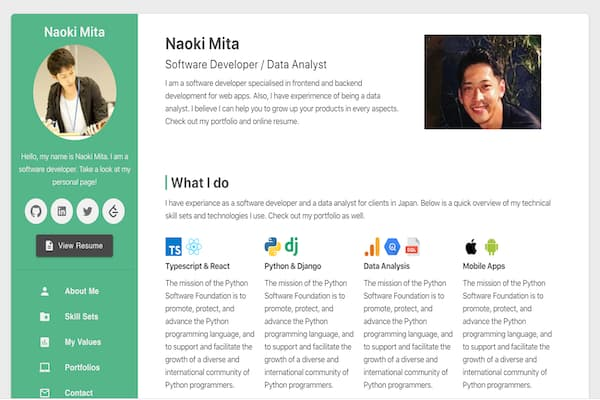
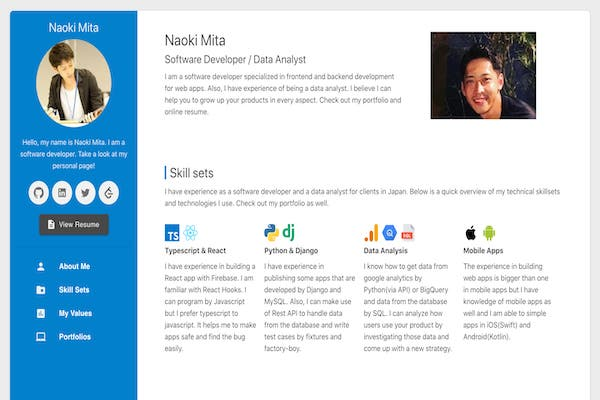
Updates

diff --git a/static/js/main.275f563f.chunk.js b/static/js/main.275f563f.chunk.js
@@ -1,0 +1,2 @@
+(this.webpackJsonpportfolio=this.webpackJsonpportfolio||[]).push([[0],{50:function(e,t,a){e.exports=a(67)},55:function(e,t,a){},56:function(e,t,a){},57:function(e,t,a){},61:function(e,t,a){},64:function(e,t,a){},65:function(e,t,a){},67:function(e,t,a){"use strict";a.r(t);var i=a(0),o=a.n(i),n=a(16),r=a.n(n),l=(a(55),a(19)),s=a(17),c=(a(56),a(90)),m=a(92),p=a(93),d=a(83),g=a(84),u=a(85),h=a(86),f=a(87),b=a(88),y=a(89),v=a(91),E=(a(57),a(80)),k=function(e){var t=e.url,a=e.icon;return o.a.createElement(E.a,{className:"icon-button",size:"medium",href:t},a)},w=(a(61),a(98)),N=a(81),I=a(82),T=a(41),j=function(e){var t=e.text,a=e.icon,i=e.anchor;return o.a.createElement(T.HashLink,{className:"headline-link",to:"/portfolio#".concat(i)},o.a.createElement(w.a,{button:!0,className:"headline-list-item"},o.a.createElement(N.a,{className:"headline-icon"},a),o.a.createElement(I.a,{className:"headline-text",primary:t})))},_=function(){var e=[{url:"https://github.com/nk18chi",element:o.a.createElement(d.a,null)},{url:"https://www.linkedin.com/in/naoki-mita-ab186839/",element:o.a.createElement(g.a,null)},{url:"https://twitter.com/naokien1",element:o.a.createElement(u.a,null)},{url:"https://leetcode.com/nk18chi/",element:o.a.createElement("img",{src:"/portfolio/img/icon/leetcode.svg",alt:""})}],t=[{text:"About Me",icon:o.a.createElement(h.a,null),anchor:"about-me"},{text:"Skill Sets",icon:o.a.createElement(f.a,null),anchor:"skill-sets"},{text:"My Values",icon:o.a.createElement(b.a,null),anchor:"my-values"},{text:"Portfolios",icon:o.a.createElement(y.a,null),anchor:"portfolios"}];return o.a.createElement("div",{className:"side-bar"},o.a.createElement("div",{className:"profile"},o.a.createElement("h2",null,"Naoki Mita"),o.a.createElement("img",{src:"/portfolio/img/main.jpg",alt:""}),o.a.createElement("p",null,"Hello, my name is Naoki Mita. I am a software developer. Take a look at my personal page!")),o.a.createElement("div",{className:"social-link"},o.a.createElement("ul",null,e.length>0&&e.map((function(e,t){return o.a.createElement(k,{key:t,url:e.url,icon:e.element})})))),o.a.createElement(c.a,{className:"black-btn",variant:"contained",size:"large",startIcon:o.a.createElement(v.a,null)},"View Resume"),o.a.createElement(m.a,{className:"divider"}),o.a.createElement("div",{className:"headline"},o.a.createElement(p.a,{component:"nav"},t.length>0&&t.map((function(e,t){return o.a.createElement(j,{key:t,text:e.text,icon:e.icon,anchor:e.anchor})})))))},U=(a(64),a(97)),x=a(94),A=a(95),z=a(96),S=[{id:1,serviceName:"Venture Desk",serviceThumbnail:"/portfolio/img/portfolio/vd_thumbnail.jpg",serviceDescription:"Users can book a meeting room through this app and apply for a membership that can make use of working space.",appIcons:["/portfolio/img/icon/typescript.svg","/portfolio/img/icon/react.svg","/portfolio/img/icon/firebase.svg","/portfolio/img/icon/sass.svg"],usages:[{headline:"User can check all meeting rooms",description:"Those meeting room data are fetched from Firebase Database",image:"/portfolio/img/portfolio/vd_search_meeting_room.jpg"},{headline:"Book a meeting room via through a form",description:"",image:"/portfolio/img/portfolio/vd_booking.jpg"},{headline:"Manage booking information that users applied for by admin-user",description:"Admin user can read and create, update the booking information on admin-page. This is built by react-admin with Firebase.",image:"/portfolio/img/portfolio/vd_admin_booking.jpg"},{headline:"The mail is sent to admin-user when use book a meeting room.",description:"This function is for admin-user not to overlook a booking user applied. This mail sending system is used by Firebase Functions",image:"/portfolio/img/portfolio/vd_mail.jpg"},{headline:"The booking is going to be fixed if admin-user allow",description:"Other users can make sure whether to book the room at time they want or not.",image:"/portfolio/img/portfolio/vd_schedule.jpg"},{headline:"User have to register to book the meeting",description:"The authentication to handle register and log-in, log-out rely on Firebase. This app verifies whether the email that user type in register page is true or not.",image:"/portfolio/img/portfolio/vd_register.jpg"}],features:[{headline:"Serverless apps",description:"This is a single page application by only react and firebase. I used React Hooks to handle data instead of Redux. I used react-admin and react-big-calendar that I connect with firebase."}],memo:"This app is not published yet because my client is making content and taking a photo. Also, I built this app for my client so that I don't plan to make this code public."},{id:2,serviceName:"Bizre",serviceThumbnail:"/portfolio/img/portfolio/bizre_thumbnail.jpg",serviceDescription:"This app is intended for a person who deal with real estate. They can advertise their properties that are on sale or rent at no cost.",appIcons:["/portfolio/img/icon/python.svg","/portfolio/img/icon/django.svg","/portfolio/img/icon/mysql.svg","/portfolio/img/icon/centos.svg"],usages:[{headline:"Search for a proprty by filtering area or station, cost and so on",description:"Users can store properties as favorites if they are logged-in.",image:"/portfolio/img/portfolio/bizre_searchlist.jpg"},{headline:"Check the information of a property in detail",description:"User can contact with the advertiser if they are interested in.",image:"/portfolio/img/portfolio/bizre_detail.jpg"},{headline:"Register this app by email-authentication",description:"User can use features of advertising property and storing property if they register. This app requires to verify their email that they input in register page as an authentication.User can use features of advertising property and storing property if they register. This app requires to verify their email that they input in register page as an authentication. This function is used by User authentication in Django.",image:"/portfolio/img/portfolio/bizre_register.jpg"},{headline:"Add their property as advertisement",description:"Users can add their property and advertise them at no cost if they register and admin-user allow. Of course, they update and delete their items. The term of advertising is  for only 40 days. Advertiser can receive notice of expiry date before 10 days and update expiry date during this 10days. If not, it will be automatically deleted on this app.",image:"/portfolio/img/portfolio/bizre_add_property.jpg"},{headline:"Set access permission for their property",description:"If advertiser want only some people to see their property, they can set access permission. If they do not have permit, it appears 403 page. In this If advertiser want only some people to see their property, they can set access permission. If they do not have permit, it appears 403 page. Users can sent an access request to an advertiser and users can watch the property if advertiser accepts the offer.",image:"/portfolio/img/portfolio/bizre_ar.jpg"},{headline:"send a mail that users might be interested in",description:"When a property is added, this app automatically send a mail to user that might have interest in this property according to user's area and needs. User can also register their needs for this mail.",image:"/portfolio/img/portfolio/bizre_mail.jpg"}],features:[{headline:"Test code by fixture and factory-boy",description:"This app has a lot of features so that it is more likely to happen bugs. To reduce this possibility, I focussed on writing test codes in particular for user authentication. ",image:"/portfolio/img/portfolio/bizre_testcode.jpg"},{headline:"Make the structure of files clean",description:"Take a look at above image. In general, the bigger a product is, the more complex the code is. To avoid this problem, I strictly followed MVC design pattern. In addition, divided folder by features and separated template files from apps."}],webUrl:"https://biz-re.com/",memo:"I developed this app for my client. Therefore, I don't plan to make this code public."},{id:3,serviceName:"Webdirector Blog",serviceThumbnail:"/portfolio/img/portfolio/wd_thumbnail.jpg",serviceDescription:"Users can book a meeting room through this app and apply for a membership that can make use of working space.",appIcons:["/portfolio/img/icon/python.svg","/portfolio/img/icon/django.svg","/portfolio/img/icon/mysql.svg","/portfolio/img/icon/centos.svg"],features:[{headline:"Get more articles without loading by REST API",description:"",image:"/portfolio/img/portfolio/wd_restapi.gif"},{headline:"Switch languages by i18n",description:"This blog can switch between Japanese and English. If an article is written by both languages, the post can switch languages. If not, move to top page in the languages.",image:"/portfolio/img/portfolio/wd_i18n.gif"},{headline:"SEO Friendly",description:"I am taking care of HTML markdown and structure of the URL path. Also, I set alternate tags in HTML because this blog supports two languages. To increase the speed of the blog, I set a cache for static files and reduce the weight of the images."}],webUrl:"https://webdirector-blog.com/en/",githubUrl:"https://github.com/nk18chi/webdirector-blog/"},{id:4,serviceName:"Portfolio",serviceThumbnail:"/portfolio/img/portfolio/portfolio.jpg",serviceDescription:"I introduce myself about what I can and my products on this page. This website is built by React and Github Hosting.",appIcons:["/portfolio/img/icon/typescript.svg","/portfolio/img/icon/react.svg","/portfolio/img/icon/github.svg","/portfolio/img/icon/sass.svg"],webUrl:"https://nk18chi.github.io/portfolio/",githubUrl:"https://github.com/nk18chi/portfolio"}],M=function(){var e=[{title:"Typescript & React",description:"I have experience in building a React app with Firebase. I am familiar with React Hooks. I can program by Javascript but I prefer typescript to javascript. It helps me to make apps safe and find the bug easily.",icons:["/portfolio/img/icon/typescript.svg","/portfolio/img/icon/react.svg"]},{title:"Python & Django",description:"I have experience in publishing some apps that are developed by Django and MySQL. Also, I can make use of Rest API to handle data from the database and write test cases by fixtures and factory-boy.",icons:["/portfolio/img/icon/python.svg","/portfolio/img/icon/django.svg"]},{title:"Data Analysis",description:"I know how to get data from google analytics by Python(via API) or BigQuery and data from the database by SQL. I can analyze how users use your product by investigating those data and come up with a new strategy.",icons:["/portfolio/img/icon/google-analytics.svg","/portfolio/img/icon/google-big-query.png","/portfolio/img/icon/sql.svg"]},{title:"Mobile Apps",description:"The experience in building web apps is bigger than one in mobile apps but I have knowledge of mobile apps as well and I am able to simple apps in iOS(Swift) and Android(Kotlin).",icons:["/portfolio/img/icon/apple.svg","/portfolio/img/icon/android.svg"]}],t=[{icon:o.a.createElement(x.a,null),title:"Passion for building apps",description:"I love building apps and thinking about how make users comfortable. I never stop learning and building the app even free time."},{icon:o.a.createElement(A.a,null),title:"Think efficiently",description:"I always keep looking for the way to reduce time. I love automation and effective-algorithm."},{icon:o.a.createElement(z.a,null),title:"Work together well",description:"I can smoothly work with a team from other departments because I have knowledge of not only building apps but also analysis and marketing, design etc."}];return o.a.createElement("article",{className:"main-column"},o.a.createElement("section",{id:"about-me",className:"about-me block"},o.a.createElement("div",{className:"summary-description"},o.a.createElement("h1",null,"Naoki Mita"),o.a.createElement("h3",null,"Software Developer / Data Analyst"),o.a.createElement("p",null,"I am a software developer specialized in frontend and backend development for web apps. Also, I have experience of being a data analyst. I believe I can help you to grow up your products in every aspect. Check out my portfolio and online resume.")),o.a.createElement("div",{className:"summary-image"},o.a.createElement("img",{className:"main-thumnail",src:"/portfolio/img/about_me.jpg",alt:""}))),o.a.createElement("section",{id:"skill-sets",className:"skill-sets block"},o.a.createElement("h2",null,"Skill sets"),o.a.createElement("p",null,"I have experience as a software developer and a data analyst for clients in Japan. Below is a quick overview of my technical skillsets and technologies I use. Check out my portfolio as well."),o.a.createElement("ul",null,e.length>0&&e.map((function(e,t){return o.a.createElement("li",{key:t,className:"four-elements"},o.a.createElement("div",null,o.a.createElement("ul",{className:"icon"},e.icons.length>0&&e.icons.map((function(e,t){return o.a.createElement("li",{key:t},o.a.createElement("img",{className:"app-icon",src:e,alt:""}))})))),o.a.createElement("h3",null,e.title),o.a.createElement("p",null,e.description))})))),o.a.createElement("section",{id:"my-values",className:"block"},o.a.createElement("h2",null,"My Values"),o.a.createElement("ul",null,t.length>0&&t.map((function(e,t){return o.a.createElement("li",{key:t,className:"three-elements"},o.a.createElement("p",{className:"center app-big-icon"},e.icon),o.a.createElement("h3",{className:"center"},e.title),o.a.createElement("p",null,e.description))})))),o.a.createElement("section",{id:"portfolios",className:"portfolios block"},o.a.createElement("h2",null,"PortFolios"),o.a.createElement("ul",null,S.length>0&&S.map((function(e){return o.a.createElement("li",{key:e.id,className:"three-elements card"},o.a.createElement("img",{className:"portfolio-thumbnail",src:e.serviceThumbnail,alt:""}),o.a.createElement("div",{className:"portfolio-description"},o.a.createElement("h3",null,e.serviceName),o.a.createElement("p",null,e.serviceDescription),o.a.createElement("p",{className:"font-little-bold"},"Applications"),o.a.createElement("ul",{className:"icons-ul"},e.appIcons.length>0&&e.appIcons.map((function(e,t){return o.a.createElement("li",{key:t},o.a.createElement("img",{className:"app-icon",src:e,alt:""}))}))),o.a.createElement("div",{className:"view-more"},o.a.createElement(U.a,{component:l.Link,to:"/portfolio/p_".concat(e.id,"/")},"view more"))))})))))},D=(a(65),a(43)),R=a.n(D),F=a(44),H=a.n(F);function P(){var e=Object(s.l)().pathname;return o.a.useEffect((function(){window.scrollTo(0,0)}),[e]),null}var q=function(e){var t=e.match.params.portfolio_id,a=S.find((function(e){return e.id===Number(t)}));return o.a.createElement("article",{className:"main-column"},o.a.createElement(P,null),o.a.createElement("section",{className:"portfolio-summary block"},o.a.createElement("div",{className:"summary-description"},o.a.createElement("h1",null,a.serviceName),o.a.createElement("p",null,a.serviceDescription),o.a.createElement("p",{className:"font-little-bold"},"Applications"),o.a.createElement("ul",{className:"icon"},a.appIcons.length>0&&a.appIcons.map((function(e,t){return o.a.createElement("li",{key:t},o.a.createElement("img",{className:"app-icon",src:e,alt:""}))})))),o.a.createElement("div",{className:"summary-image"},o.a.createElement("img",{className:"main-thumnail",src:a.serviceThumbnail,alt:""}))),a.usages&&o.a.createElement("section",{className:"portfolio-detail block"},o.a.createElement("h2",null,"How to use"),a.usages.length>0&&a.usages.map((function(e,t){return o.a.createElement("div",{key:t,className:"portfolio--detail-container block"},o.a.createElement("h3",{className:"font-little-bold"},e.headline),e.image&&o.a.createElement("img",{className:"portfolio-detail-image",src:e.image,alt:""}),o.a.createElement("p",null,e.description),o.a.createElement("ul",null))}))),a.features&&o.a.createElement("section",{className:"portfolio-detail block"},o.a.createElement("h2",null,"Feature points"),a.features.length>0&&a.features.map((function(e,t){return o.a.createElement("div",{key:t,className:"portfolio--detail-container block"},o.a.createElement("h3",{className:"font-little-bold"},e.headline),e.image&&o.a.createElement("img",{className:"portfolio-detail-image",src:e.image,alt:""}),o.a.createElement("p",null,e.description),o.a.createElement("ul",null))}))),o.a.createElement("section",{className:"portfolio-links block"},o.a.createElement("h2",null,"Go to my app"),o.a.createElement("ul",null,a.webUrl&&o.a.createElement("li",null,o.a.createElement(c.a,{href:a.webUrl,className:"black-btn link-badge",variant:"contained",size:"large",startIcon:o.a.createElement(R.a,null)},"Visit webpage")),a.githubUrl&&o.a.createElement("li",null,o.a.createElement(c.a,{href:a.githubUrl,className:"black-btn link-badge",variant:"contained",size:"large",startIcon:o.a.createElement(H.a,null)},"See on GitHub")),a.appstoreUrl&&o.a.createElement("li",null,o.a.createElement("div",null,o.a.createElement(U.a,{href:a.appstoreUrl},o.a.createElement("img",{className:"app-store-badge",src:"/portfolio/img/app-store-badge.svg",alt:""})))),a.googleplayUrl&&o.a.createElement("li",null,o.a.createElement("div",null,o.a.createElement(U.a,{href:a.googleplayUrl},o.a.createElement("img",{className:"google-play-badge link-badge",src:"/portfolio/img/google-play-badge.png",alt:""}))))),a.memo&&o.a.createElement("p",null,"\u203b",a.memo)))};var B=function(){return o.a.createElement(o.a.Fragment,null,o.a.createElement("div",{className:"container"},o.a.createElement(l.BrowserRouter,null,o.a.createElement(_,null),o.a.createElement(s.g,null,o.a.createElement(s.d,{exact:!0,path:"/portfolio/p_:portfolio_id",component:q}),o.a.createElement(s.d,{exact:!0,path:"/portfolio",component:M})))),o.a.createElement("footer",null,"2020 \xa9 Naoki Mita. All Rights Reserved."))};Boolean("localhost"===window.location.hostname||"[::1]"===window.location.hostname||window.location.hostname.match(/^127(?:\.(?:25[0-5]|2[0-4][0-9]|[01]?[0-9][0-9]?)){3}$/));r.a.render(o.a.createElement(o.a.StrictMode,null,o.a.createElement(B,null)),document.getElementById("root")),"serviceWorker"in navigator&&navigator.serviceWorker.ready.then((function(e){e.unregister()})).catch((function(e){console.error(e.message)}))}},[[50,1,2]]]);
+//# sourceMappingURL=main.275f563f.chunk.js.map

diff --git a/index.html b/index.html
@@ -1,1 +1,1 @@
-<!doctype html><html lang="en"><head><meta charset="utf-8"/><link rel="icon" href="/portfolio/favicon.ico"/><meta name="viewport" content="width=device-width,initial-scale=1"/><meta name="theme-color" content="#000000"/><meta name="description" content="Web site created using create-react-app"/><link rel="apple-touch-icon" href="/portfolio/logo192.png"/><link rel="manifest" href="/portfolio/manifest.json"/><title>React App</title><link href="/portfolio/static/css/main.5c84f550.chunk.css" rel="stylesheet"></head><body><noscript>You need to enable JavaScript to run this app.</noscript><div id="root"></div><script>!function(e){function r(r){for(var n,l,f=r[0],i=r[1],p=r[2],c=0,s=[];c<f.length;c++)l=f[c],Object.prototype.hasOwnProperty.call(o,l)&&o[l]&&s.push(o[l][0]),o[l]=0;for(n in i)Object.prototype.hasOwnProperty.call(i,n)&&(e[n]=i[n]);for(a&&a(r);s.length;)s.shift()();return u.push.apply(u,p||[]),t()}function t(){for(var e,r=0;r<u.length;r++){for(var t=u[r],n=!0,f=1;f<t.length;f++){var i=t[f];0!==o[i]&&(n=!1)}n&&(u.splice(r--,1),e=l(l.s=t[0]))}return e}var n={},o={1:0},u=[];function l(r){if(n[r])return n[r].exports;var t=n[r]={i:r,l:!1,exports:{}};return e[r].call(t.exports,t,t.exports,l),t.l=!0,t.exports}l.m=e,l.c=n,l.d=function(e,r,t){l.o(e,r)||Object.defineProperty(e,r,{enumerable:!0,get:t})},l.r=function(e){"undefined"!=typeof Symbol&&Symbol.toStringTag&&Object.defineProperty(e,Symbol.toStringTag,{value:"Module"}),Object.defineProperty(e,"__esModule",{value:!0})},l.t=function(e,r){if(1&r&&(e=l(e)),8&r)return e;if(4&r&&"object"==typeof e&&e&&e.__esModule)return e;var t=Object.create(null);if(l.r(t),Object.defineProperty(t,"default",{enumerable:!0,value:e}),2&r&&"string"!=typeof e)for(var n in e)l.d(t,n,function(r){return e[r]}.bind(null,n));return t},l.n=function(e){var r=e&&e.__esModule?function(){return e.default}:function(){return e};return l.d(r,"a",r),r},l.o=function(e,r){return Object.prototype.hasOwnProperty.call(e,r)},l.p="/portfolio/";var f=this.webpackJsonpportfolio=this.webpackJsonpportfolio||[],i=f.push.bind(f);f.push=r,f=f.slice();for(var p=0;p<f.length;p++)r(f[p]);var a=i;t()}([])</script><script src="/portfolio/static/js/2.1c5b478a.chunk.js"></script><script src="/portfolio/static/js/main.45e0fc2d.chunk.js"></script></body></html>
+<!doctype html><html lang="en"><head><script>!function(e,t,a,n,g){e[n]=e[n]||[],e[n].push({"gtm.start":(new Date).getTime(),event:"gtm.js"});var m=t.getElementsByTagName(a)[0],r=t.createElement(a);r.async=!0,r.src="https://www.googletagmanager.com/gtm.js?id=GTM-TSL5QLT",m.parentNode.insertBefore(r,m)}(window,document,"script","dataLayer")</script><meta charset="utf-8"/><link rel="icon" href="/portfolio/favicon.ico"/><meta name="viewport" content="width=device-width,initial-scale=1"/><meta name="theme-color" content="#000000"/><meta name="description" content="Web site created using create-react-app"/><link rel="apple-touch-icon" href="/portfolio/logo192.png"/><link rel="manifest" href="/portfolio/manifest.json"/><title>React App</title><link href="/portfolio/static/css/main.824cbae8.chunk.css" rel="stylesheet"></head><body><noscript><iframe src="https://www.googletagmanager.com/ns.html?id=GTM-TSL5QLT" height="0" width="0" style="display:none;visibility:hidden"></iframe></noscript><noscript>You need to enable JavaScript to run this app.</noscript><div id="root"></div><script>!function(e){function r(r){for(var n,l,f=r[0],i=r[1],p=r[2],c=0,s=[];c<f.length;c++)l=f[c],Object.prototype.hasOwnProperty.call(o,l)&&o[l]&&s.push(o[l][0]),o[l]=0;for(n in i)Object.prototype.hasOwnProperty.call(i,n)&&(e[n]=i[n]);for(a&&a(r);s.length;)s.shift()();return u.push.apply(u,p||[]),t()}function t(){for(var e,r=0;r<u.length;r++){for(var t=u[r],n=!0,f=1;f<t.length;f++){var i=t[f];0!==o[i]&&(n=!1)}n&&(u.splice(r--,1),e=l(l.s=t[0]))}return e}var n={},o={1:0},u=[];function l(r){if(n[r])return n[r].exports;var t=n[r]={i:r,l:!1,exports:{}};return e[r].call(t.exports,t,t.exports,l),t.l=!0,t.exports}l.m=e,l.c=n,l.d=function(e,r,t){l.o(e,r)||Object.defineProperty(e,r,{enumerable:!0,get:t})},l.r=function(e){"undefined"!=typeof Symbol&&Symbol.toStringTag&&Object.defineProperty(e,Symbol.toStringTag,{value:"Module"}),Object.defineProperty(e,"__esModule",{value:!0})},l.t=function(e,r){if(1&r&&(e=l(e)),8&r)return e;if(4&r&&"object"==typeof e&&e&&e.__esModule)return e;var t=Object.create(null);if(l.r(t),Object.defineProperty(t,"default",{enumerable:!0,value:e}),2&r&&"string"!=typeof e)for(var n in e)l.d(t,n,function(r){return e[r]}.bind(null,n));return t},l.n=function(e){var r=e&&e.__esModule?function(){return e.default}:function(){return e};return l.d(r,"a",r),r},l.o=function(e,r){return Object.prototype.hasOwnProperty.call(e,r)},l.p="/portfolio/";var f=this.webpackJsonpportfolio=this.webpackJsonpportfolio||[],i=f.push.bind(f);f.push=r,f=f.slice();for(var p=0;p<f.length;p++)r(f[p]);var a=i;t()}([])</script><script src="/portfolio/static/js/2.1c5b478a.chunk.js"></script><script src="/portfolio/static/js/main.275f563f.chunk.js"></script></body></html>

diff --git a/static/css/main.824cbae8.chunk.css b/static/css/main.824cbae8.chunk.css
@@ -1,0 +1,2 @@
+body{margin:0;font-family:-apple-system,BlinkMacSystemFont,"Segoe UI","Roboto","Oxygen","Ubuntu","Cantarell","Fira Sans","Droid Sans","Helvetica Neue",sans-serif;-webkit-font-smoothing:antialiased;-moz-osx-font-smoothing:grayscale;color:#484848}code{font-family:source-code-pro,Menlo,Monaco,Consolas,"Courier New",monospace}a,abbr,acronym,address,applet,article,aside,audio,b,big,blockquote,body,canvas,caption,center,cite,code,dd,del,details,dfn,div,dl,dt,em,embed,fieldset,figcaption,figure,footer,form,h1,h2,h3,h4,h5,h6,header,hgroup,html,i,iframe,img,ins,kbd,label,legend,li,mark,menu,nav,object,ol,output,p,pre,q,ruby,s,samp,section,small,span,strike,strong,sub,summary,sup,table,tbody,td,tfoot,th,thead,time,tr,tt,u,ul,var,video{margin:0;padding:0;border:0;font-size:100%;vertical-align:baseline}article,aside,details,figcaption,figure,footer,header,hgroup,menu,nav,section{display:block}html{scroll-behavior:smooth}body{line-height:1}ol,ul{list-style:none}blockquote,q{quotes:none}blockquote:after,blockquote:before,q:after,q:before{content:"";content:none}table{border-collapse:collapse;border-spacing:0}a{text-decoration:none}p{margin:12px 0;line-height:24px}#root{background-color:#ececec;overflow:hidden}footer{text-align:center;padding:8px;font-size:14px}.container{overflow:hidden;margin:24px;background-color:#0180cb;box-shadow:0 2px 2px 0 rgba(0,0,0,.14),0 3px 1px -2px rgba(0,0,0,.2),0 1px 5px 0 rgba(0,0,0,.12);border-radius:8px}h1{font-size:32px}.main-column{width:78%;float:right;background:#fff;min-height:750px}.main-column h2{font-size:28px;border-left:4px solid #0180cb;padding-left:8px}.black-btn{color:#f1f1f1!important;background-color:#484848!important;text-transform:none!important}.summary-description{width:60%;float:left}.summary-image{width:40%;float:left;text-align:center}.main-thumnail{max-width:75%}.icon,.icon li{display:inline-block}.icon{margin-bottom:8px}.app-icon{width:36px;height:36px;margin-right:8px}.block{padding:4% 6%;overflow:hidden}.center{text-align:center}.font-little-bold{font-weight:600}.side-bar{width:20%;float:left;color:#f1f1f1;text-align:center;padding:12px 1%}.side-bar .divider{margin:24px 0 8px!important}.profile img{border-radius:50%;width:180px;padding:4px 0}.profile h2{font-size:26px;padding:8px 0}.profile p{font-size:15px}.social-link{margin:16px 0}.icon-button{margin:4px!important;background-color:#f1f1f1!important}.icon-button img{width:24px;height:24px}.headline-link{color:#fff!important}.headline .headline-list-item{padding:8px 48px!important}.headline .headline-text span{font-weight:700!important}.headline .headline-icon{color:#f1f1f1}#about-me{overflow:hidden}#about-me h3{font-size:23px;font-weight:400;margin:12px 0}#skill-sets .four-elements{float:left;display:block;width:23%;margin:2% 2% 2% 0}.app-big-icon svg{width:40px;height:40px}#my-values .three-elements,#portfolios .three-elements{width:30%;float:left;margin:3% 3% 3% 0}#portfolios h3{margin-bottom:12px}#portfolios .portfolio-thumbnail{width:100%}#portfolios .icons-ul li{display:inline-block}#portfolios .card{box-shadow:0 2px 2px 0 rgba(0,0,0,.14),0 3px 1px -2px rgba(0,0,0,.2),0 1px 5px 0 rgba(0,0,0,.12);transition:.3s;cursor:pointer;border-radius:5px;position:relative}#portfolios .card:hover{-webkit-transform:scale(1.05);transform:scale(1.05)}.portfolio-description{margin:4%}.view-more{text-align:right;padding:12px 12px 4px}.view-more a:after{position:absolute;top:0;right:0;bottom:0;left:0;z-index:3;pointer-events:auto;content:""}.portfolio--detail-container{text-align:center}.portfolio--detail-container img{width:100%}.portfolio--detail-container h3{font-size:23px;font-weight:400}.portfolio-detail-image{margin:20px 0 12px}.portfolio-links ul{overflow:hidden}.portfolio-links li{float:left;padding:40px 0;width:25%;text-align:center}.link-badge{width:200px!important;min-height:66px!important}.app-store-badge,.google-play-badge{width:200px}
+/*# sourceMappingURL=main.824cbae8.chunk.css.map */

diff --git a/precache-manifest.b3d15ae5966a9da7841269e8493474b9.js b/precache-manifest.b3d15ae5966a9da7841269e8493474b9.js
@@ -1,11 +1,11 @@
 self.__precacheManifest = (self.__precacheManifest || []).concat([
   {
-    "revision": "dafede531f52e2700b5b4fb6dabc5145",
+    "revision": "e1dd173a6f8892c3119afc1beea303fa",
     "url": "/portfolio/index.html"
   },
   {
-    "revision": "2db65d0ea3de9cc04047",
-    "url": "/portfolio/static/css/main.5c84f550.chunk.css"
+    "revision": "489953749bf0d94e77c1",
+    "url": "/portfolio/static/css/main.824cbae8.chunk.css"
   },
   {
     "revision": "8e3a7d089e99ad256e1a",
@@ -16,8 +16,8 @@ self.__precacheManifest = (self.__precacheManifest || []).concat([
     "url": "/portfolio/static/js/2.1c5b478a.chunk.js.LICENSE.txt"
   },
   {
-    "revision": "2db65d0ea3de9cc04047",
-    "url": "/portfolio/static/js/main.45e0fc2d.chunk.js"
+    "revision": "489953749bf0d94e77c1",
+    "url": "/portfolio/static/js/main.275f563f.chunk.js"
   },
   {
     "revision": "6c1d3ad26a766dc494c1",

diff --git a/service-worker.js b/service-worker.js
@@ -14,7 +14,7 @@
 importScripts("https://storage.googleapis.com/workbox-cdn/releases/4.3.1/workbox-sw.js");
 
 importScripts(
-  "/portfolio/precache-manifest.ace7dbc667d7cb3ffe205ad3fa6087a9.js"
+  "/portfolio/precache-manifest.b3d15ae5966a9da7841269e8493474b9.js"
 );
 
 self.addEventListener('message', (event) => {
